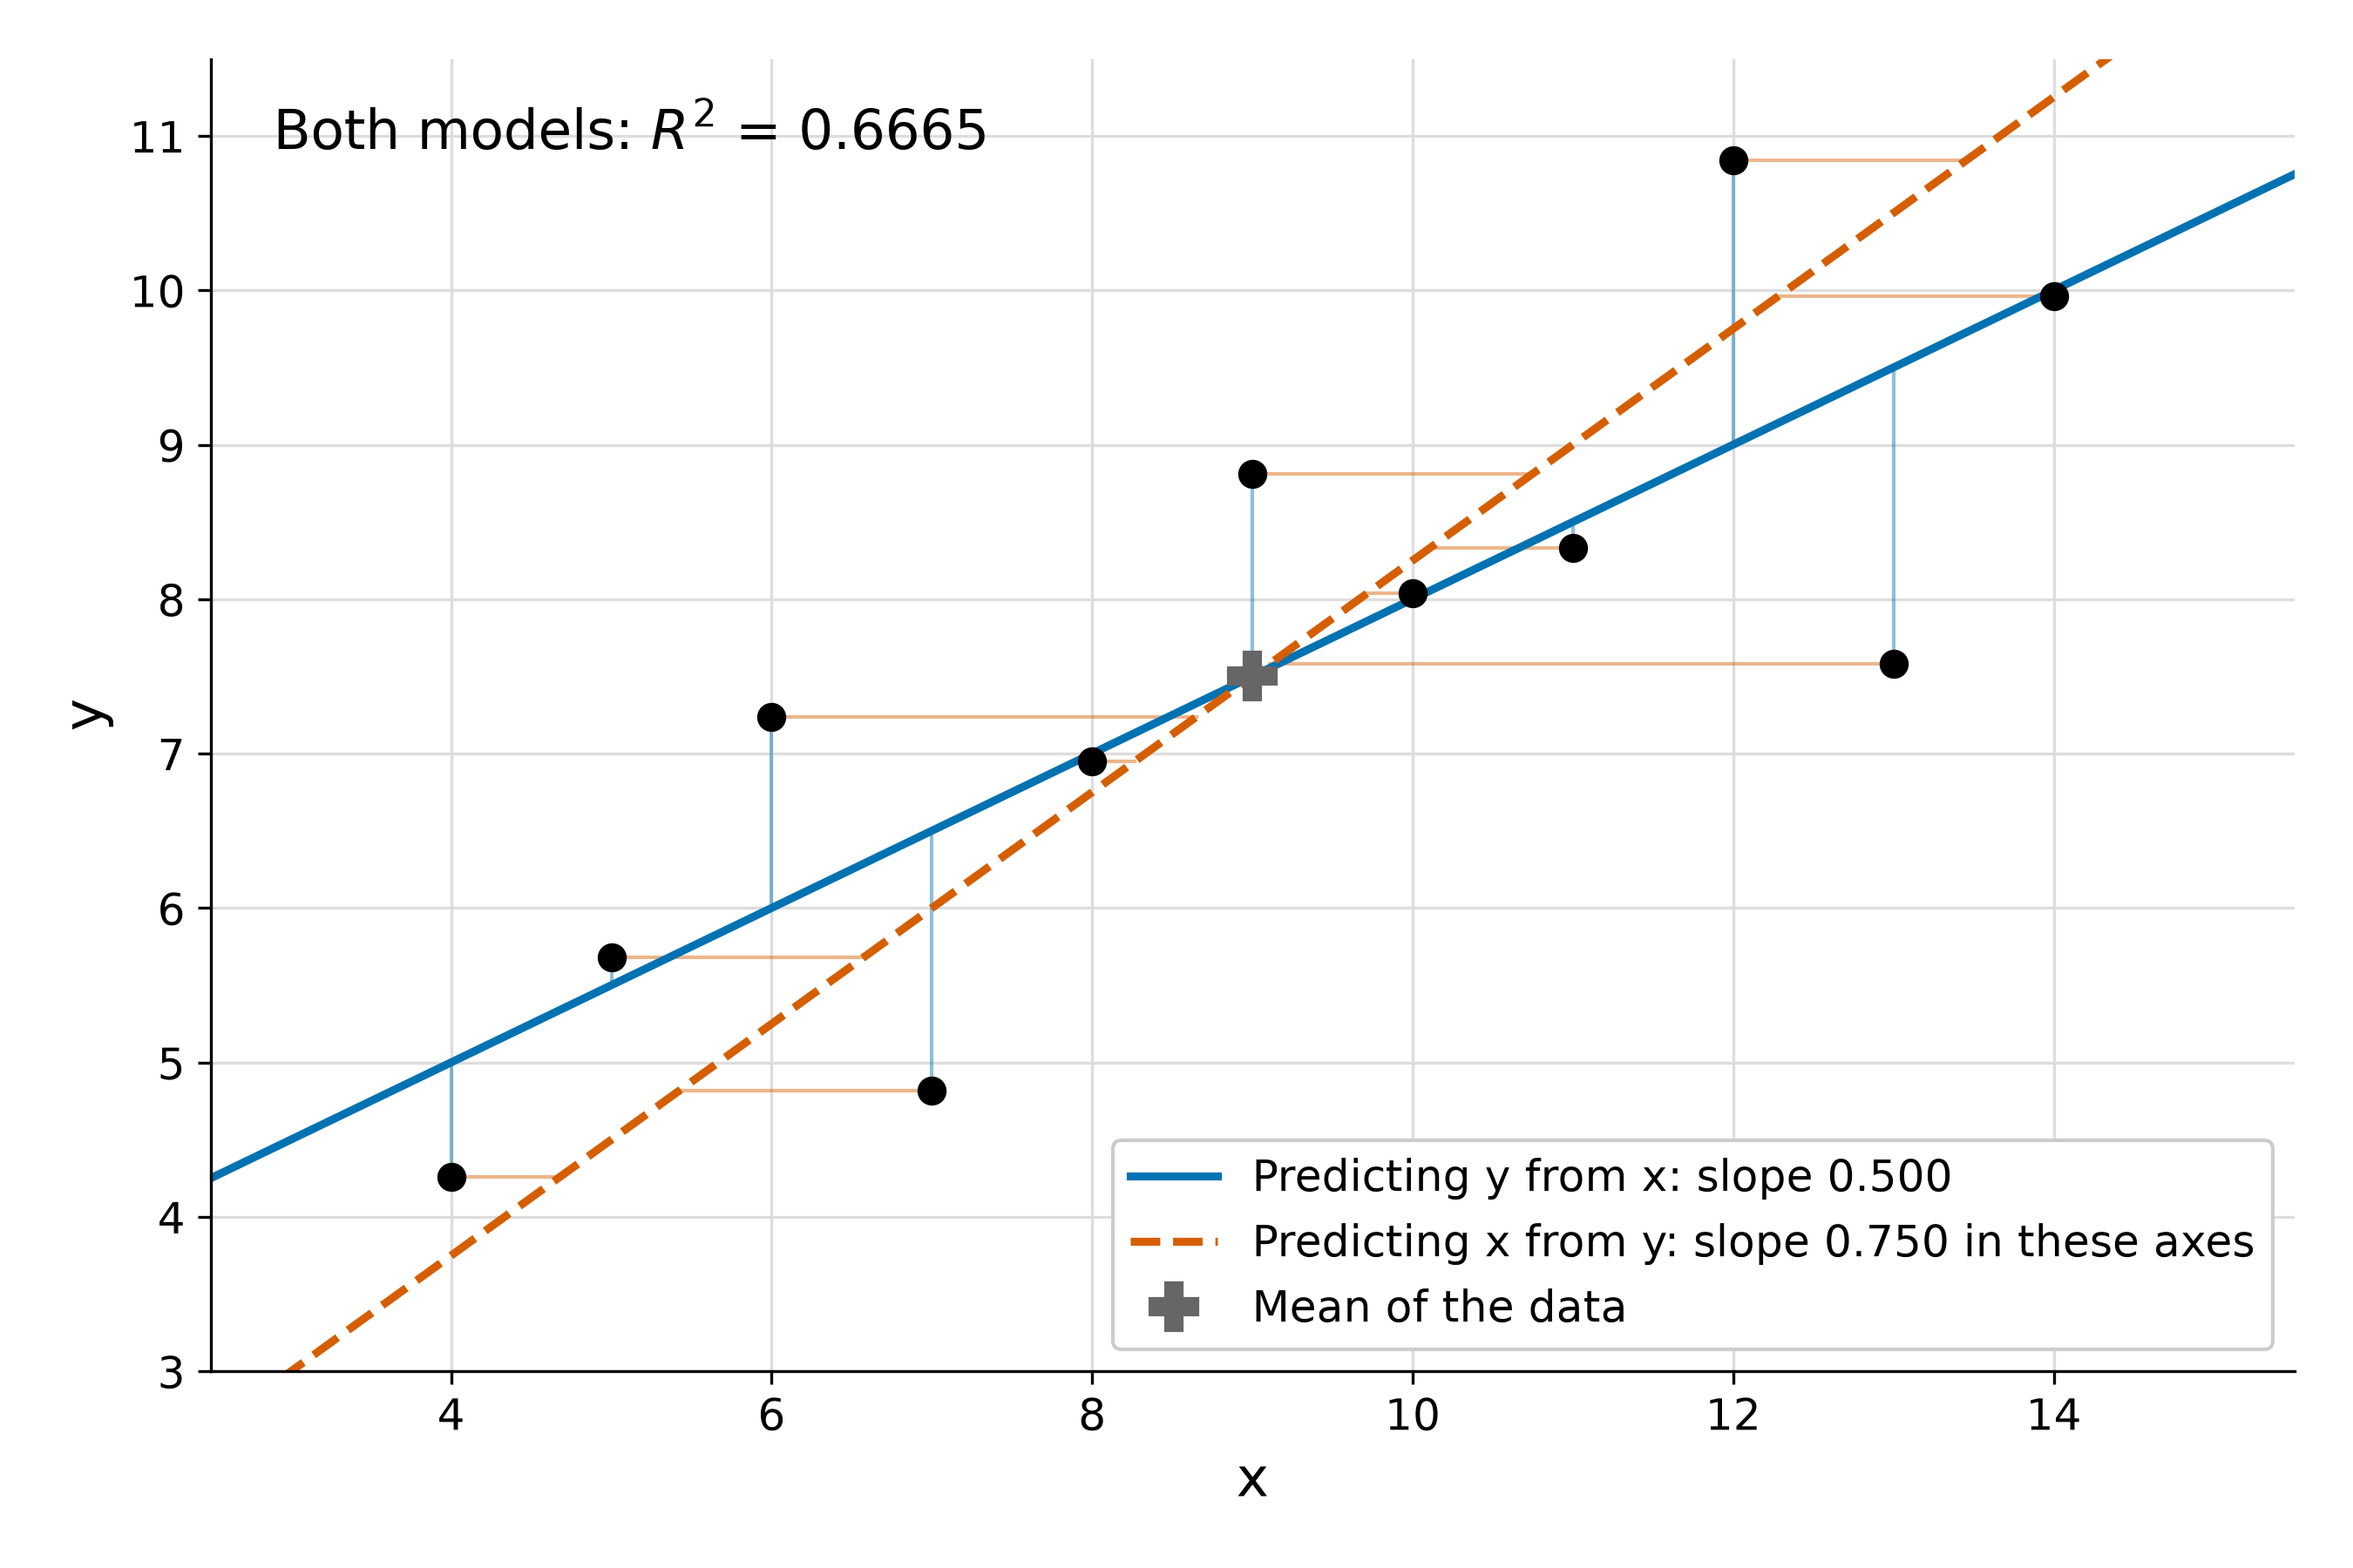
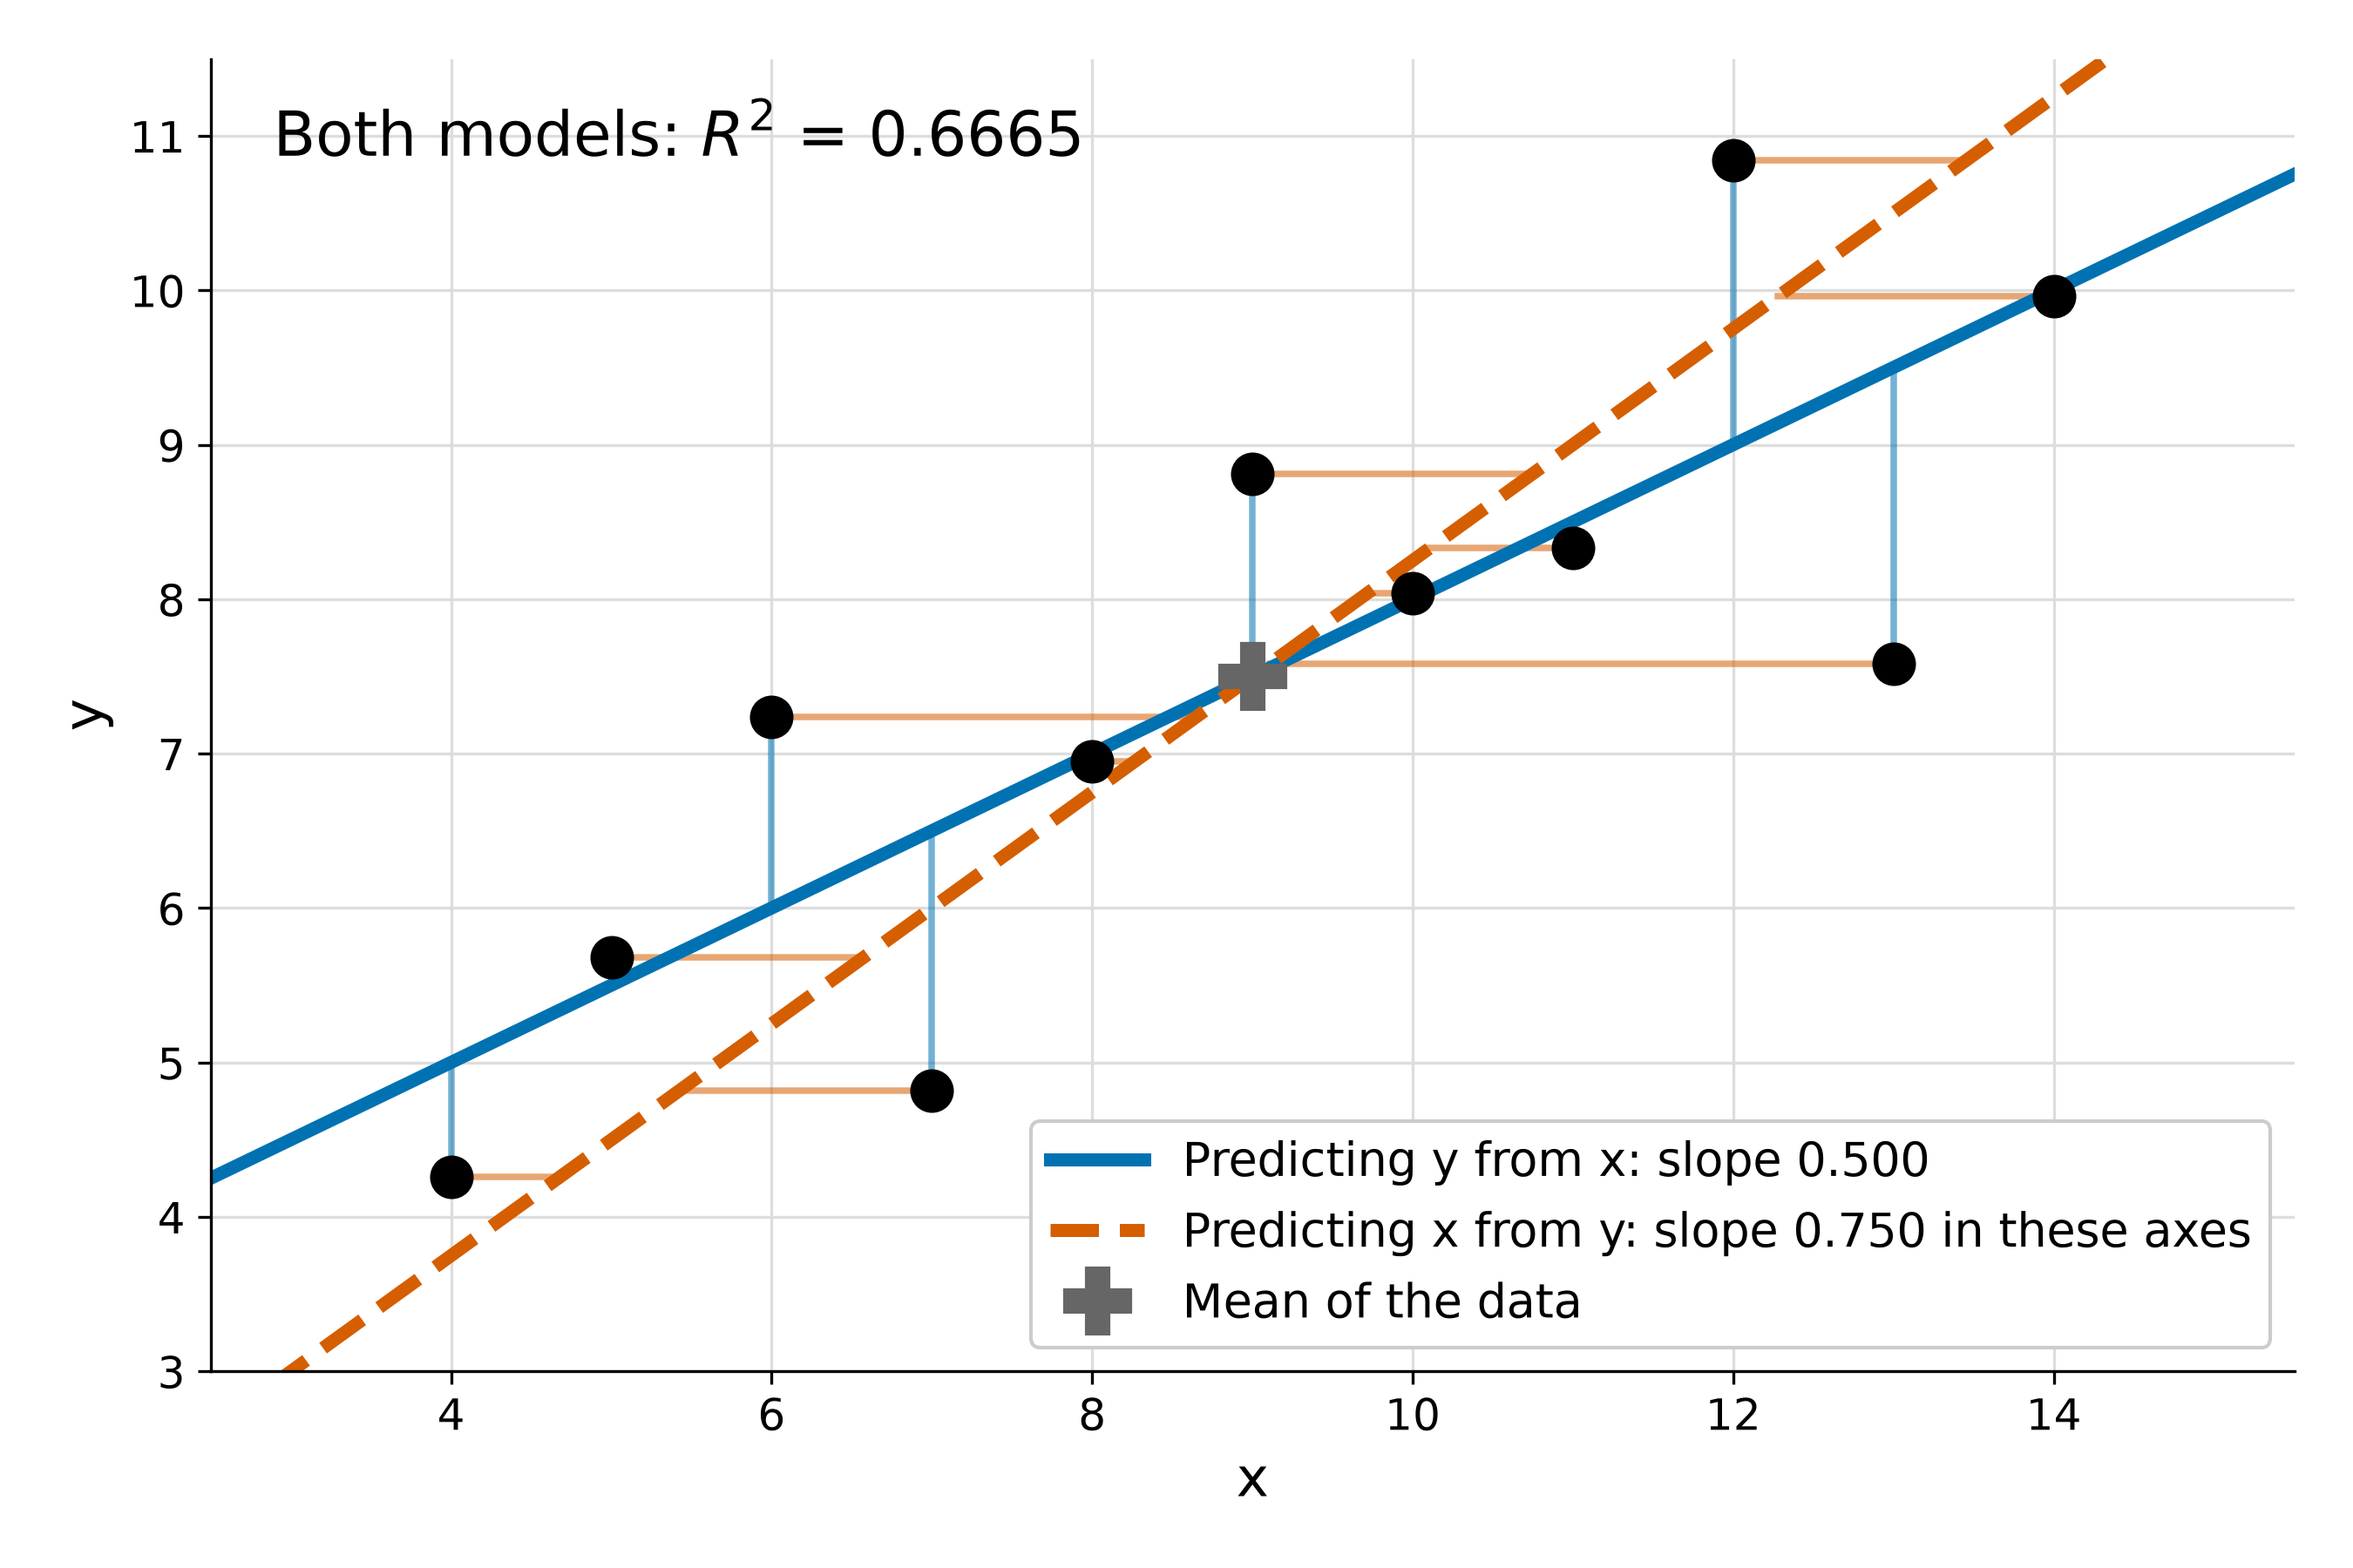
Weight up the R-squared symmetry figure so it reads at print size
The figure carries a lot of thin line work: two fitted lines, and a
vertical and a horizontal segment for every one of the eleven points.
At the previous weights those elements were faint once the PNG is
scaled down to the width the chapter renders it at.

Data markers go from 7 to 11 points and the mean marker from 13 to 18,
the two fitted lines from 1.8 to 3.6, and the residual segments from
1.0 to 1.8 at slightly higher opacity. The segments keep roughly half
the weight of the lines they run to, so they still read as distances
being measured rather than as lines in their own right. The annotation
and legend text move up by two and one point to stay in proportion.

No change to any of the numbers: the slopes are still 0.500 and 0.750,
and both models still report R-squared of 0.6665.

Claude-Session: https://claude.ai/code/session_01HmZm5s8KTMzGQoqsWa1Nzr

diff --git a/least-squares/r-squared-figures.py b/least-squares/r-squared-figures.py
@@ -92,30 +92,30 @@ def symmetry_figure(outdir: pathlib.Path, filename: str) -> None:
 
     # Residuals each line minimises: vertical for one, horizontal for the other.
     for xi, yi in zip(x, y):
-        ax.plot([xi, xi], [yi, b0 + b1 * xi], color=BLUE, linewidth=1.0, alpha=0.45)
+        ax.plot([xi, xi], [yi, b0 + b1 * xi], color=BLUE, linewidth=1.8, alpha=0.55)
         ax.plot(
-            [xi, a0 + a1 * yi], [yi, yi], color=VERMILLION, linewidth=1.0, alpha=0.45
+            [xi, a0 + a1 * yi], [yi, yi], color=VERMILLION, linewidth=1.8, alpha=0.55
         )
 
-    ax.plot(grid, b0 + b1 * grid, color=BLUE, linewidth=2.2,
+    ax.plot(grid, b0 + b1 * grid, color=BLUE, linewidth=3.6,
             label=f"Predicting y from x: slope {b1:.3f}")
-    ax.plot(grid, c0 + c1 * grid, color=VERMILLION, linewidth=2.2, linestyle="--",
+    ax.plot(grid, c0 + c1 * grid, color=VERMILLION, linewidth=3.6, linestyle="--",
             label=f"Predicting x from y: slope {c1:.3f} in these axes")
-    ax.plot(x, y, "o", color="black", markersize=7, zorder=5)
-    ax.plot(x.mean(), y.mean(), "P", color=GREY, markersize=13, zorder=6,
+    ax.plot(x, y, "o", color="black", markersize=11, zorder=5)
+    ax.plot(x.mean(), y.mean(), "P", color=GREY, markersize=18, zorder=6,
             label="Mean of the data")
 
     ax.text(
         0.03, 0.97,
         f"Both models: $R^2$ = {r2:.4f}",
-        transform=ax.transAxes, va="top", ha="left", fontsize=15,
+        transform=ax.transAxes, va="top", ha="left", fontsize=17,
     )
     ax.set_xlabel("x")
     ax.set_ylabel("y")
     ax.set_xlim(2.5, 15.5)
     ax.set_ylim(3.0, 11.5)
     ax.grid(True, color="#DDDDDD")
-    ax.legend(loc="lower right", fontsize=12, framealpha=1.0)
+    ax.legend(loc="lower right", fontsize=13, framealpha=1.0)
     fig.tight_layout()
     fig.savefig(outdir / filename, dpi=DPI)
     plt.close(fig)
